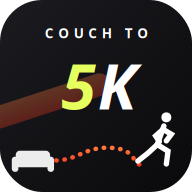
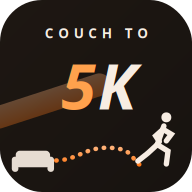
Add files via upload

diff --git a/index.html b/index.html
@@ -3,38 +3,42 @@
 <head>
 <meta charset="utf-8">
 <meta name="viewport" content="width=device-width, initial-scale=1, viewport-fit=cover">
-<meta name="theme-color" content="#08080a">
+<meta name="theme-color" content="#100c09">
 <link rel="manifest" href="manifest.json">
 <link rel="icon" type="image/png" href="icon-192.png">
 <link rel="apple-touch-icon" href="icon-192.png">
 <link rel="stylesheet" href="https://cdn.jsdelivr.net/npm/leaflet@1.9.4/dist/leaflet.css">
 <title>First 5K — Couch to 5K</title>
 <style>
-:root{--bg:#0c0c0f;--card:#15151a;--ink:#f4f4f6;--muted:#9d9da8;--green:#cdea44;--green2:#222a10;--line:#2a2a32;--orange:#f9612b;--red:#e05252}
+:root{--bg:#171310;--card:#221a14;--ink:#f7ede3;--muted:#a89a8a;--primary:#ff7a1a;--primary2:#3a2313;--line:#332920;--accent:#ffb37a;--red:#e05252}
 *{box-sizing:border-box}body{margin:0;background:var(--bg);color:var(--ink);font:16px/1.45 system-ui,-apple-system,BlinkMacSystemFont,"Segoe UI",sans-serif}
-header{background:#08080a;color:white;padding:24px 18px 22px;border-radius:0 0 24px 24px}
-.wrap{max-width:760px;margin:auto}header .eyebrow{font-size:12px;letter-spacing:.13em;text-transform:uppercase;color:#cdea44;font-weight:700}
-h1{font-size:30px;line-height:1.1;margin:8px 0}header p{margin:8px 0 0;color:#b9b9c2}
+header{background:#100c09;color:white;padding:24px 18px 22px;border-radius:0 0 24px 24px}
+.wrap{max-width:760px;margin:auto}header .eyebrow{font-size:12px;letter-spacing:.13em;text-transform:uppercase;color:#ff7a1a;font-weight:700}
+h1{font-size:28px;line-height:1.1;margin:8px 0;font-family:"Arial Narrow","Helvetica Neue Condensed",Impact,sans-serif;font-style:italic;letter-spacing:.03em}
+h2{font-size:20px;margin:0 0 12px;font-family:"Arial Narrow","Helvetica Neue Condensed",Impact,sans-serif;font-style:italic;letter-spacing:.02em;font-weight:800}
+.phase,.clock,.steptext,header .eyebrow{font-family:"Arial Narrow","Helvetica Neue Condensed",Impact,sans-serif;font-style:italic}
+.clock{letter-spacing:-.02em}
+nav button,button.primary,button.secondary,button.danger{font-family:"Arial Narrow","Helvetica Neue Condensed",Impact,sans-serif;font-style:italic;font-weight:800;letter-spacing:.03em}header p{margin:8px 0 0;color:#cbbfae}
 nav{display:flex;gap:8px;padding:14px 14px 0;max-width:760px;margin:auto}
-nav button{flex:1;border:1px solid var(--line);background:#15151a;color:var(--muted);border-radius:12px;padding:11px 5px;font-weight:700}
-nav button.active{background:var(--green);border-color:var(--green);color:#0c0c0f}
+nav button{flex:1;border:1px solid var(--line);background:#221a14;color:var(--muted);border-radius:12px;padding:11px 5px;font-weight:700}
+nav button.active{background:var(--primary);border-color:var(--primary);color:#171310}
 main{padding:14px;max-width:760px;margin:auto}.panel{display:none}.panel.active{display:block}
 .card{background:var(--card);border:1px solid var(--line);border-radius:18px;padding:17px;margin-bottom:13px;box-shadow:0 2px 8px #00000066}
-h2{font-size:20px;margin:0 0 12px}h3{font-size:16px;margin:0 0 7px}.muted{color:var(--muted)}.small{font-size:13px}
+h3{font-size:16px;margin:0 0 7px}.muted{color:var(--muted)}.small{font-size:13px}
 .row{display:flex;gap:10px;align-items:center}.row>*{min-width:0}.between{justify-content:space-between}
-select,button,input{font:inherit}select{width:100%;padding:11px;border:1px solid var(--line);border-radius:11px;background:#15151a;color:var(--ink)}
+select,button,input{font:inherit}select{width:100%;padding:11px;border:1px solid var(--line);border-radius:11px;background:#221a14;color:var(--ink)}
 button.primary,button.secondary,button.danger{border:0;border-radius:12px;padding:13px 15px;font-weight:750;cursor:pointer}
-button.primary{background:var(--green);color:#0c0c0f}button.secondary{background:var(--green2);color:var(--green)}button.danger{background:#2a1414;color:var(--red)}
+button.primary{background:var(--primary);color:#171310}button.secondary{background:var(--primary2);color:var(--primary)}button.danger{background:#3a1d16;color:var(--red)}
 button:disabled{opacity:.45;cursor:not-allowed}.full{width:100%}
-.pills{display:flex;gap:8px;flex-wrap:wrap}.pill{border-radius:999px;padding:6px 10px;background:#222a10;color:#d7f45e;font-size:12px;font-weight:700}
-.progress{height:9px;border-radius:20px;background:#232329;overflow:hidden}.progress span{display:block;height:100%;width:0;background:var(--green);transition:width .2s}
-.timer{text-align:center;padding:18px 0 12px}.phase{font-weight:800;text-transform:uppercase;letter-spacing:.1em;font-size:13px;color:var(--green)}.clock{font-size:clamp(56px,15vw,82px);letter-spacing:-.06em;line-height:1.1;font-variant-numeric:tabular-nums;font-weight:800;margin:8px 0}.steptext{font-size:17px;font-weight:700}.quote{border-left:4px solid var(--orange);padding:10px 13px;background:#221910;border-radius:0 10px 10px 0;color:#eda76f}
-.statgrid{display:grid;grid-template-columns:repeat(3,1fr);gap:8px}.stat{background:#1b1b21;padding:12px;border-radius:12px}.stat strong{display:block;font-size:22px}.stat span{font-size:12px;color:var(--muted)}
-.week{padding:13px 0;border-bottom:1px solid var(--line)}.week:last-child{border-bottom:0}.sessions{display:flex;gap:7px;margin-top:9px}.session{flex:1;text-align:center;border:1px solid var(--line);border-radius:10px;padding:9px 2px;font-size:12px;background:#15151a}.session.done{background:var(--green2);border-color:#3a4418;color:var(--green);font-weight:800}.session.current{border:2px solid var(--green);padding:8px 1px}
+.pills{display:flex;gap:8px;flex-wrap:wrap}.pill{border-radius:999px;padding:6px 10px;background:#3a2313;color:#ffb37a;font-size:12px;font-weight:700}
+.progress{height:9px;border-radius:20px;background:#332920;overflow:hidden}.progress span{display:block;height:100%;width:0;background:var(--primary);transition:width .2s}
+.timer{text-align:center;padding:18px 0 12px}.phase{font-weight:800;text-transform:uppercase;letter-spacing:.1em;font-size:13px;color:var(--primary)}.clock{font-size:clamp(56px,15vw,82px);letter-spacing:-.06em;line-height:1.1;font-variant-numeric:tabular-nums;font-weight:800;margin:8px 0}.steptext{font-size:17px;font-weight:700}.quote{border-left:4px solid var(--accent);padding:10px 13px;background:#2e1f14;border-radius:0 10px 10px 0;color:#ffb37a}
+.statgrid{display:grid;grid-template-columns:repeat(3,1fr);gap:8px}.stat{background:#2a2018;padding:12px;border-radius:12px}.stat strong{display:block;font-size:22px}.stat span{font-size:12px;color:var(--muted)}
+.week{padding:13px 0;border-bottom:1px solid var(--line)}.week:last-child{border-bottom:0}.sessions{display:flex;gap:7px;margin-top:9px}.session{flex:1;text-align:center;border:1px solid var(--line);border-radius:10px;padding:9px 2px;font-size:12px;background:#221a14}.session.done{background:var(--primary2);border-color:#5a3a1f;color:var(--primary);font-weight:800}.session.current{border:2px solid var(--primary);padding:8px 1px}
 footer{padding:4px 18px 28px;text-align:center;color:var(--muted);font-size:12px;max-width:760px;margin:auto}
 hr{border:0;border-top:1px solid var(--line);margin:15px 0}
-input[type=url]{width:100%;padding:11px;border:1px solid var(--line);border-radius:11px;background:#15151a;color:var(--ink)}
-input[type=range]{width:100%;accent-color:var(--green)}
+input[type=url]{width:100%;padding:11px;border:1px solid var(--line);border-radius:11px;background:#221a14;color:var(--ink)}
+input[type=range]{width:100%;accent-color:var(--primary)}
 details summary{cursor:pointer;font-weight:700}iframe{display:block}
 @media(min-width:600px){main{padding:18px}.card{padding:20px}.timer{padding:20px 0}}
 </style>
@@ -63,9 +67,9 @@ details summary{cursor:pointer;font-weight:700}iframe{display:block}
 </div>
 <div class="card" id="trackCard">
 <h3>Run map</h3>
-<div id="liveMap" style="height:230px;border-radius:12px;overflow:hidden;background:#15151a"></div>
+<div id="liveMap" style="height:230px;border-radius:12px;overflow:hidden;background:#221a14"></div>
 <div class="statgrid" style="margin-top:10px"><div class="stat"><strong id="liveKm">0.00</strong><span>km</span></div><div class="stat"><strong id="livePace">–</strong><span>pace /km</span></div><div class="stat"><strong id="liveTime">0:00</strong><span>time</span></div></div>
-<p class="small muted" id="trackMsg" style="margin-bottom:0">Your recorded GPS route stays on this device. Online street-map tiles are requested from CARTO; offline, a simple route trace is shown.</p>
+<p class="small muted" id="trackMsg" style="margin-bottom:0">Your route is drawn as you run. It never leaves your phone.</p>
 </div>
 <div class="card" id="musicCard">
 <h3>Music</h3>
@@ -92,7 +96,7 @@ details summary{cursor:pointer;font-weight:700}iframe{display:block}
 <div class="card"><h2>Your progress</h2><div class="statgrid"><div class="stat"><strong id="doneCount">0</strong><span>Runs completed</span></div><div class="stat"><strong id="weekCount">0/3</strong><span>This week's runs</span></div><div class="stat"><strong id="streakCount">0</strong><span>Weeks completed</span></div></div><hr><div class="row between"><h3>Workout history</h3><button class="secondary small" id="exportBtn">Export data</button></div><div id="historyList" class="muted small">Complete your first workout to see it here.</div><hr><button class="danger full" id="resetBtn">Reset all progress</button><p class="small muted">Progress is saved on this device in this browser. Clearing browser data or switching devices may erase it. Export a backup occasionally.</p></div>
 </section>
 </main>
-<footer>Free beginner tool · Core workouts need no account or subscription. Progress and GPS routes are stored on this device; online maps and Spotify use their own services.</footer>
+<footer>Free, self-contained beginner tool · No account, subscription, GPS or data sent to a server.</footer>
 <script src="https://cdn.jsdelivr.net/npm/leaflet@1.9.4/dist/leaflet.js"></script>
 <script>
 const plans = [
@@ -137,7 +141,7 @@ function fillSelectors(){
 }
 function totalFor(s){return s.reduce((a,x)=>a+x.secs,0)}
 function loadWorkout(){
- if(running||paused){if(!confirm("Change workout and stop the current timer?")){fillSelectors();return;}stopTimer()}
+ if(running){if(!confirm("Change workout and stop the current timer?"))return;stopTimer()}
  steps=sessionSteps(state.selectedWeek,state.selectedRun);total=totalFor(steps);stepIndex=0;remaining=steps[0].secs;elapsed=0;started=false;paused=false;
  $("workoutTitle").textContent=`Week ${state.selectedWeek+1} · Run ${state.selectedRun+1}`;
  $("workoutDuration").textContent="~"+Math.round(total/60)+" min";
@@ -191,7 +195,7 @@ const SPOTIFY_CLIENT_ID = "dd308f122d634c94a2ef16df478f3783";
 const SPOTIFY_REDIRECT_URI = "https://malmohlady-ctrl.github.io/Couch-to-5k/";
 const SPOTIFY_SCOPES = ["streaming","user-read-playback-state","user-modify-playback-state","user-read-currently-playing"].join(" ");
 const SPOTIFY_TOKEN_KEY = "first5k_spotify_tokens";
-let spotifyPlayer = null, spotifyDeviceId = null, spotifyReady = false, spotifyTrack = "", spotifyArtist = "", spotifyAlbum = "", spotifyArtwork = "", spotifyPosition = 0, spotifyDuration = 0, spotifyPositionAt = 0, spotifyPaused = true, spotifyTrackUri = "", spotifyPlaylistTracks = [], spotifyTracksLoading = false, spotifyTracksLoaded = false;
+let spotifyPlayer = null, spotifyDeviceId = null, spotifyReady = false, spotifyTrack = "", spotifyTrackName = "", spotifyTrackArtists = "", spotifyArtwork = "", spotifyPaused = true, spotifyTrackUri = "", spotifyPlaylistTracks = [], spotifyTracksLoading = false, spListOpen = false;
 function escHtml(s){return String(s||"").replace(/[&<>"']/g,c=>({"&":"&amp;","<":"&lt;",">":"&gt;",'"':"&quot;","'":"&#39;"}[c]));}
 function spotifySetupDone(){return SPOTIFY_CLIENT_ID && SPOTIFY_CLIENT_ID.indexOf("PASTE")!==0;}
 function spotifyTokens(){try{return JSON.parse(localStorage.getItem(SPOTIFY_TOKEN_KEY)||"null");}catch(e){return null;}}
@@ -236,7 +240,7 @@ async function spotifyToken(){
 }
 function spotifyPlaylistUri(){
  const u=spotifyLink(prefs.spotify||"");
- const m=u&&u.match(/open\.spotify\.com\/(playlist|album)\/([A-Za-z0-9]+)/);
+ const m=u&&u.match(/open\.spotify\.com\/(playlist|album|track)\/([A-Za-z0-9]+)/);
  return m?("spotify:"+m[1]+":"+m[2]):null;
 }
 function initSpotifyPlayer(){
@@ -256,13 +260,12 @@ function createSpotifyPlayer(){
  spotifyPlayer.addListener("player_state_changed",function(st){
   if(!st)return;
   const t=st.track_window&&st.track_window.current_track;
-  spotifyTrack=t?(t.name||""):"";
-  spotifyArtist=t?t.artists.map(function(a){return a.name;}).join(", "):"";
-  spotifyAlbum=t&&t.album?t.album.name:"";
-  spotifyArtwork=t&&t.album&&t.album.images&&t.album.images.length?t.album.images[0].url:"";
+  spotifyTrack=t?(t.name+" — "+t.artists.map(function(a){return a.name;}).join(", ")):"";
+  spotifyTrackName=t?t.name:"";
+  spotifyTrackArtists=t?t.artists.map(function(a){return a.name;}).join(", "):"";
   spotifyTrackUri=t?t.uri:"";
-  spotifyPosition=Number(st.position)||0;spotifyDuration=Number(st.duration)||0;spotifyPositionAt=Date.now();
-  spotifyPaused=!!st.paused;renderSpotifyConnect();spotifyUpdateProgress();
+  spotifyArtwork=(t&&t.album&&t.album.images&&t.album.images.length)?t.album.images[t.album.images.length-1].url:"";
+  spotifyPaused=!!st.paused;renderSpotifyConnect();
  });
  try{const p=spotifyPlayer.connect();if(p&&p.catch)p.catch(function(){});}catch(e){}
 }
@@ -275,23 +278,15 @@ async function spotifyApi(path,method,body){
  }catch(e){return false;}
 }
 async function spotifyStartPlaylist(){const uri=spotifyPlaylistUri();if(!uri)return;await spotifyApi("play","PUT",{context_uri:uri});}
-async function spotifyToggle(){if(spotifyPaused&&!spotifyTrackUri){await spotifyStartPlaylist();return;}await spotifyApi(spotifyPaused?"play":"pause","PUT");}
+async function spotifyToggle(){await spotifyApi(spotifyPaused?"play":"pause","PUT");}
 async function spotifyNext(){await spotifyApi("next","POST");}
-async function spotifyPrevious(){await spotifyApi("previous","POST");}
-function spotifyFmtTime(ms){const n=Math.max(0,Math.floor((Number(ms)||0)/1000));return Math.floor(n/60)+":"+String(n%60).padStart(2,"0");}
-function spotifyUpdateProgress(){
- const fill=$("spProgressFill"),now=$("spCurrentTime"),end=$("spDuration");if(!fill||!now||!end)return;
- let pos=spotifyPosition;if(!spotifyPaused)pos=Math.min(spotifyDuration,pos+Math.max(0,Date.now()-spotifyPositionAt));
- const pct=spotifyDuration?Math.min(100,Math.max(0,pos/spotifyDuration*100)):0;
- fill.style.width=pct+"%";fill.parentElement.setAttribute("aria-valuenow",String(Math.round(pct)));now.textContent=spotifyFmtTime(pos);end.textContent=spotifyFmtTime(spotifyDuration);
-}
 function spotifyPlaylistId(){
  const u=spotifyLink(prefs.spotify||"");
  const m=u&&u.match(/open\.spotify\.com\/(playlist|album)\/([A-Za-z0-9]+)/);
  return m?{kind:m[1],id:m[2]}:null;
 }
 async function spotifyLoadPlaylist(){
- if(spotifyTracksLoading||spotifyTracksLoaded)return;spotifyTracksLoading=true;spotifyTracksLoaded=true;
+ if(spotifyTracksLoading)return;spotifyTracksLoading=true;
  spotifyPlaylistTracks=[];
  const tok=await spotifyToken(),pl=spotifyPlaylistId();
  if(tok&&pl){
@@ -299,7 +294,7 @@ async function spotifyLoadPlaylist(){
    const ep=pl.kind==="album"?"albums":"playlists";
    const res=await fetch("https://api.spotify.com/v1/"+ep+"/"+pl.id+"/tracks?fields=items(track(name,artists(name),uri))&limit=50",{headers:{Authorization:"Bearer "+tok}});
    const data=await res.json();
-   spotifyPlaylistTracks=(data.items||[]).map(function(i){return i.track||i;}).filter(function(t){return t&&t.name&&t.uri;}).map(function(t){return{name:t.name,artists:(t.artists||[]).map(function(a){return a.name;}).join(", "),uri:t.uri};});
+   spotifyPlaylistTracks=(data.items||[]).map(function(i){return i.track;}).filter(Boolean).map(function(t){return{name:t.name,artists:t.artists.map(function(a){return a.name;}).join(", "),uri:t.uri};});
   }catch(e){}
  }
  spotifyTracksLoading=false;renderSpotifyConnect();
@@ -310,45 +305,49 @@ async function spotifyPlayTrack(uri){
  else await spotifyApi("play","PUT",{uris:[uri]});
 }
 function renderTrackList(){
- if(spotifyTracksLoading)return '<p class="small muted" style="margin:12px 0 0">Loading playlist…</p>';
- if(!spotifyPlaylistTracks.length)return '<p class="small muted" style="margin:12px 0 0">Your playlist track list could not be loaded. Playback may still work. Check Spotify permissions or try saving the playlist link again.</p>';
- let h='<div id="spTrackList" style="margin-top:10px;max-height:230px;overflow-y:auto;border:1px solid var(--line);border-radius:10px">';
+ if(!spotifyPlaylistTracks.length)return "";
+ let h='<div id="spTrackList" style="margin-top:8px;max-height:240px;overflow-y:auto;background:#161616;border-radius:14px;padding:8px">';
  for(let i=0;i<spotifyPlaylistTracks.length;i++){
   const t=spotifyPlaylistTracks[i],active=t.uri===spotifyTrackUri;
-  h+='<div class="sp-track" data-uri="'+escHtml(t.uri)+'" style="padding:9px 12px;cursor:pointer;'+(i>0?"border-top:1px solid var(--line);":"")+(active?"background:var(--green2);":"")+'">'
-   +'<div style="font-weight:700;font-size:14px;'+(active?"color:var(--green);":"")+'">'+escHtml(t.name)+'</div>'
-   +'<div class="small muted">'+escHtml(t.artists)+'</div></div>';
+  h+='<div class="sp-track" data-uri="'+t.uri+'" style="padding:10px 12px;cursor:pointer;border-radius:10px;'+(active?"background:#2e2e2e;":"")+'">'
+   +'<div style="font-weight:700;font-size:14px;color:#fff;white-space:nowrap;overflow:hidden;text-overflow:ellipsis">'+escHtml(t.name)+'</div>'
+   +'<div style="font-size:12px;color:#9a9a9a;white-space:nowrap;overflow:hidden;text-overflow:ellipsis">'+escHtml(t.artists)+'</div></div>';
  }
  return h+'</div>';
 }
-function spotifyDisconnect(){try{spotifyPlayer&&spotifyPlayer.disconnect();}catch(e){}spotifyPlayer=null;spotifyDeviceId=null;spotifyReady=false;spotifyTrack="";spotifyArtist="";spotifyAlbum="";spotifyArtwork="";spotifyPosition=0;spotifyDuration=0;spotifyPositionAt=0;spotifyPaused=true;spotifyTrackUri="";spotifyPlaylistTracks=[];spotifyTracksLoading=false;spotifyTracksLoaded=false;spotifyClearTokens();renderSpotifyConnect();}
+function spotifyDisconnect(){try{spotifyPlayer&&spotifyPlayer.disconnect();}catch(e){}spotifyPlayer=null;spotifyDeviceId=null;spotifyReady=false;spotifyTrack="";spotifyTrackName="";spotifyTrackArtists="";spotifyArtwork="";spotifyPaused=true;spotifyTrackUri="";spotifyPlaylistTracks=[];spotifyTracksLoading=false;spListOpen=false;spotifyClearTokens();renderSpotifyConnect();}
 function renderSpotifyConnect(){
  const box=$("spotifyConnect");if(!box)return;
  if(!spotifySetupDone()){box.innerHTML="";return;}
  if(!spotifyTokens()){
-  box.innerHTML='<button class="primary full" id="spConnectBtn" type="button">Connect Spotify</button><p class="small muted" style="margin:8px 0 0">Connect once to play music here, view the playlist and control playback without leaving First 5K.</p>';
+  box.innerHTML='<button class="primary full" id="spConnectBtn" type="button" style="background:#1db954;color:#fff">Connect Spotify</button>'
+   +'<p class="small muted" style="margin:8px 0 0">One-time login. After that, full songs play right here in the app.</p>' ;
   $("spConnectBtn").addEventListener("click",spotifyLogin);return;
  }
- if(!spotifyPlaylistTracks.length&&spotifyReady&&!spotifyTracksLoading&&!spotifyTracksLoaded)spotifyLoadPlaylist();
- const art=spotifyArtwork&&/^https:\/\//i.test(spotifyArtwork)?spotifyArtwork:"";
- const artwork=art?'<img src="'+escHtml(art)+'" alt="Album artwork" style="width:76px;height:76px;object-fit:cover;border-radius:10px;background:#232329;flex-shrink:0" loading="lazy">':'<div aria-label="Album artwork unavailable" style="width:76px;height:76px;border-radius:10px;background:#232329;display:grid;place-items:center;flex-shrink:0;font-size:26px">♫</div>';
- let html='<div style="border:1px solid var(--line);border-radius:15px;padding:12px;background:#101014">';
- html+='<div class="row" style="align-items:center;gap:12px">'+artwork+'<div style="min-width:0;flex:1"><div class="small muted" style="margin-bottom:3px">'+(spotifyReady?'NOW PLAYING':'SPOTIFY PLAYER')+'</div><div style="font-weight:800;font-size:15px;line-height:1.25;overflow-wrap:anywhere">'+escHtml(spotifyTrack||(spotifyReady?'Choose a song':'Connecting player…'))+'</div><div class="small muted" style="margin-top:4px;overflow-wrap:anywhere">'+escHtml(spotifyArtist||spotifyAlbum||(spotifyReady?'Ready to play':'Waiting for Spotify'))+'</div>'+(spotifyAlbum&&spotifyArtist?'<div class="small muted" style="margin-top:2px;overflow-wrap:anywhere">'+escHtml(spotifyAlbum)+'</div>':'')+'</div></div>';
- html+='<div style="margin-top:14px"><div id="spProgress" role="progressbar" aria-label="Song progress" aria-valuemin="0" aria-valuemax="100" aria-valuenow="0" style="height:5px;border-radius:99px;background:#303039;overflow:hidden"><div id="spProgressFill" style="height:100%;width:0;background:var(--green);border-radius:99px"></div></div><div class="row between small muted" style="margin-top:5px"><span id="spCurrentTime">0:00</span><span id="spDuration">0:00</span></div></div>';
- html+='<div class="row" style="justify-content:center;gap:12px;margin-top:10px"><button class="secondary" id="spPrevBtn" type="button" aria-label="Previous track" title="Previous track" style="min-width:48px;font-size:18px">|◀</button><button class="primary" id="spPlayBtn" type="button" aria-label="'+(spotifyPaused?'Play':'Pause')+'" style="min-width:100px">'+(spotifyPaused?'▶ Play':'Ⅱ Pause')+'</button><button class="secondary" id="spNextBtn" type="button" aria-label="Next track" title="Next track" style="min-width:48px;font-size:18px">▶|</button></div>';
- if(!spotifyReady)html+='<p class="small muted" style="margin:10px 0 0">Player connecting. If it stays here, check your Spotify Premium account and app authorization.</p>';
- html+='</div>';
- html+='<div class="row between" style="margin-top:13px"><h3 style="margin:0">Playlist</h3><span class="small muted">'+(spotifyPlaylistTracks.length?spotifyPlaylistTracks.length+' tracks':'')+'</span></div>';
- html+=renderTrackList();
- html+='<p class="small muted" style="margin:9px 0 0"><a href="#" id="spDisc" style="color:var(--muted)">Disconnect Spotify</a> · Tap a song below to play it.</p>';
- box.innerHTML=html;
+ if(!spotifyPlaylistTracks.length&&spotifyReady)spotifyLoadPlaylist();
+ let sub="";
+ if(!spotifyReady)sub='<p class="small muted" style="margin:0 0 8px">Connecting player…</p>';
+ let art;
+ if(spotifyArtwork)art='<img src="'+escHtml(spotifyArtwork)+'" alt="" style="width:44px;height:44px;border-radius:9px;flex:none;object-fit:cover">';
+ else art='<span style="width:44px;height:44px;border-radius:9px;flex:none;background:linear-gradient(135deg,#a9c8de,#1e3a4f)"></span>';
+ box.innerHTML=sub
+  +'<div style="display:flex;align-items:center;gap:10px;background:#161616;border-radius:18px;padding:9px 12px;box-shadow:0 6px 18px rgba(0,0,0,.28)">'
+  +art
+  +'<div id="spTrackTap" style="flex:1;min-width:0;cursor:pointer">'
+  +'<div style="font-weight:700;font-size:14px;color:#fff;white-space:nowrap;overflow:hidden;text-overflow:ellipsis">'+escHtml(spotifyTrackName||"Nothing playing")+'</div>'
+  +'<div style="font-size:12px;color:#9a9a9a;white-space:nowrap;overflow:hidden;text-overflow:ellipsis">'+escHtml(spotifyTrackArtists||"Tap here to browse tracks")+'</div>'
+  +'</div>'
+  +'<button id="spPlayBtn" type="button" aria-label="Play or pause" style="width:46px;height:46px;border-radius:50%;background:#fff;color:#161616;border:0;font-size:15px;font-weight:800;cursor:pointer;flex:none">'+(spotifyPaused?"\u25B6":"\u23F8")+'</button>'
+  +'<button id="spNextBtn" type="button" aria-label="Next track" style="background:none;border:0;color:#8f8f8f;font-size:20px;cursor:pointer;flex:none;padding:6px">\u23ED</button>'
+  +'</div>'
+  +'<div id="spListWrap" style="display:'+(spListOpen?"block":"none")+'">'+renderTrackList()+'</div>'
+  +'<p class="small muted" style="margin:8px 0 0"><a href="#" id="spDisc" style="color:var(--muted)">Disconnect Spotify</a> · Tap a track to play it.</p>';
  $("spPlayBtn").addEventListener("click",spotifyToggle);
- $("spPrevBtn").addEventListener("click",spotifyPrevious);
  $("spNextBtn").addEventListener("click",spotifyNext);
+ $("spTrackTap").addEventListener("click",function(){spListOpen=!spListOpen;renderSpotifyConnect();});
  const rows=box.querySelectorAll(".sp-track");
  for(let i=0;i<rows.length;i++)(function(el){el.addEventListener("click",function(){spotifyPlayTrack(el.getAttribute("data-uri"));});})(rows[i]);
  $("spDisc").addEventListener("click",function(e){e.preventDefault();spotifyDisconnect();});
- spotifyUpdateProgress();
 }
 function spotifyLink(raw){
  raw=(raw||"").trim();
@@ -369,7 +368,7 @@ $("spotifySave").addEventListener("click",()=>{
  if(/spotify\.link\//i.test(v)){$("musicMsg").textContent="That's a short link. Open it in Chrome, then copy the address from the address bar and paste that here.";return}
  const u=spotifyLink(v);
  if(!u){$("musicMsg").textContent="That doesn't look like a Spotify link. In Spotify, tap Share, then Copy link.";return}
- prefs.spotify=u;savePrefs();renderMusic();spotifyPlaylistTracks=[];spotifyTracksLoaded=false;spotifyTracksLoading=false;spotifyLoadPlaylist();$("spotifyInput").value="";$("musicMsg").textContent="Playlist saved on this device.";
+ prefs.spotify=u;savePrefs();renderMusic();spotifyPlaylistTracks=[];spotifyLoadPlaylist();$("spotifyInput").value="";$("musicMsg").textContent="Playlist saved on this device.";
 });
 function announceStep(){const s=steps[stepIndex];tone(s.type==="Run"?850:560,.22);speak(s.type==="Run"?"Start running. Let's fucking go, my nigga!":s.type==="Walk"||s.type.includes("walk")?"Walk and recover. Nice fucking work, my nigga.":s.type);$("phase").textContent=s.type;$("stepText").textContent=s.type;$("clock").textContent=fmt(remaining);$("stepCount").textContent=`Stage ${stepIndex+1} of ${steps.length}`;}
 function calcElapsed(){let e=0;for(let i=0;i<stepIndex;i++)e+=steps[i].secs;return e+steps[stepIndex].secs-remaining}
@@ -401,13 +400,7 @@ function tick(){
  if(r>0)announceStep();
  updateTimer();
 }
-function updateTimer(){
-  $("clock").textContent=fmt(remaining);
-  $("timerProgress").style.width=(total>0?Math.min(100,elapsed/total*100):0)+"%";
-  $("liveTime").textContent=fmtClock(elapsed);
-  const km=trackKm(track);
-  $("livePace").textContent=km>0.02&&elapsed>10?fmtPace(elapsed/km):"–";
-}
+function updateTimer(){$("clock").textContent=fmt(remaining);$("timerProgress").style.width=Math.min(100,elapsed/total*100)+"%"}
 // ---- Run tracking: GPS route, distance, pace. Everything stays on-device. ----
 let track=[], watchId=null, trackMsg="", liveMap=null, liveLine=null;
 function havKm(a,b){const R=6371,r=Math.PI/180,dLa=(b.lat-a.lat)*r,dLo=(b.lon-a.lon)*r;const s=Math.sin(dLa/2)**2+Math.cos(a.lat*r)*Math.cos(b.lat*r)*Math.sin(dLo/2)**2;return 2*R*Math.asin(Math.sqrt(s));}
@@ -440,7 +433,7 @@ function startTrack(){
 function stopTrack(){if(watchId!==null){try{navigator.geolocation.clearWatch(watchId)}catch(e){}watchId=null;}}
 function resetTrackCard(){
  $("liveKm").textContent="0.00";$("livePace").textContent="–";$("liveTime").textContent="0:00";
- $("trackMsg").textContent="Your recorded GPS route stays on this device. Online street-map tiles are requested from CARTO; offline, a simple route trace is shown.";
+ $("trackMsg").textContent="Your route is drawn as you run. It never leaves your phone.";
  resetLiveMap();
 }
 function resetLiveMap(){try{if(liveMap)liveMap.remove()}catch(e){}liveMap=null;liveLine=null;const el=$("liveMap");if(el)el.innerHTML="";}
@@ -449,7 +442,7 @@ function updateTrackUI(){
  $("liveKm").textContent=km.toFixed(2);
  $("liveTime").textContent=fmtClock(secs);
  $("livePace").textContent=km>0.02&&secs>10?fmtPace(secs/km):"–";
- $("trackMsg").textContent=trackMsg||(track.length?"Your recorded GPS route stays on this device. Online street-map tiles are requested from CARTO; offline, a simple route trace is shown.":"Waiting for GPS…");
+ $("trackMsg").textContent=trackMsg||(track.length?"Your route is drawn as you run. It never leaves your phone.":"Waiting for GPS…");
  drawLiveMap();
 }
 function drawLiveMap(){
@@ -461,8 +454,8 @@ function drawLiveMap(){
     el.innerHTML="";
     liveMap=L.map("liveMap",{zoomControl:false}).setView(latlngs[0],15);
     L.tileLayer("https://{s}.basemaps.cartocdn.com/dark_all/{z}/{x}/{y}{r}.png",{maxZoom:19,attribution:"© OpenStreetMap contributors © CARTO"}).addTo(liveMap);
-    liveLine=L.polyline(latlngs,{color:"#cdea44",weight:4}).addTo(liveMap);
-    L.circleMarker(latlngs[0],{radius:6,color:"#cdea44",fillColor:"#cdea44",fillOpacity:1}).addTo(liveMap);
+    liveLine=L.polyline(latlngs,{color:"#ff7a1a",weight:4}).addTo(liveMap);
+    L.circleMarker(latlngs[0],{radius:6,color:"#ff7a1a",fillColor:"#ff7a1a",fillOpacity:1}).addTo(liveMap);
     setTimeout(()=>{try{liveMap.invalidateSize()}catch(e){}},150);
    }else liveLine.setLatLngs(latlngs);
    liveMap.fitBounds(liveLine.getBounds(),{padding:[24,24]});
@@ -477,12 +470,12 @@ function drawTraceCanvas(el,pts){
  let a=Math.min(...lats),b=Math.max(...lats),c=Math.min(...lons),d=Math.max(...lons);
  if(b-a<1e-6){b+=5e-5;a-=5e-5}if(d-c<1e-6){d+=5e-5;c-=5e-5}
  const X=lo=>20+(lo-c)/(d-c)*(w-40),Y=la=>20+(1-(la-a)/(b-a))*(h-40);
- el.innerHTML=`<canvas width="${w}" height="${h}" style="width:100%;display:block;border-radius:12px;background:#15151a"></canvas><p class="small muted" style="margin:6px 0 0">Offline — the street map needs a data connection.</p>`;
+ el.innerHTML=`<canvas width="${w}" height="${h}" style="width:100%;display:block;border-radius:12px;background:#221a14"></canvas><p class="small muted" style="margin:6px 0 0">Offline — the street map needs a data connection.</p>`;
  const g=el.querySelector("canvas").getContext("2d");
- g.strokeStyle="#cdea44";g.lineWidth=3;g.lineJoin="round";g.beginPath();
+ g.strokeStyle="#ff7a1a";g.lineWidth=3;g.lineJoin="round";g.beginPath();
  pts.forEach((p,i)=>{const x=X(p.lon),y=Y(p.lat);i?g.lineTo(x,y):g.moveTo(x,y)});
  g.stroke();
- g.fillStyle="#cdea44";g.beginPath();g.arc(X(pts[0].lon),Y(pts[0].lat),5,0,7);g.fill();
+ g.fillStyle="#ff7a1a";g.beginPath();g.arc(X(pts[0].lon),Y(pts[0].lat),5,0,7);g.fill();
  g.fillStyle="#e05252";const e=pts[pts.length-1];g.beginPath();g.arc(X(e.lon),Y(e.lat),5,0,7);g.fill();
 }
 function drawTrackInto(el,pts){
@@ -492,8 +485,8 @@ function drawTrackInto(el,pts){
    el.innerHTML="";
    const m=L.map(el,{zoomControl:false}).setView(latlngs[0],15);
    L.tileLayer("https://{s}.basemaps.cartocdn.com/dark_all/{z}/{x}/{y}{r}.png",{maxZoom:19,attribution:"© OpenStreetMap contributors © CARTO"}).addTo(m);
-   const line=L.polyline(latlngs,{color:"#cdea44",weight:4}).addTo(m);
-   L.circleMarker(latlngs[0],{radius:5,color:"#cdea44",fillColor:"#cdea44",fillOpacity:1}).addTo(m);
+   const line=L.polyline(latlngs,{color:"#ff7a1a",weight:4}).addTo(m);
+   L.circleMarker(latlngs[0],{radius:5,color:"#ff7a1a",fillColor:"#ff7a1a",fillOpacity:1}).addTo(m);
    const e=latlngs[latlngs.length-1];
    L.circleMarker(e,{radius:5,color:"#e05252",fillColor:"#e05252",fillOpacity:1}).addTo(m);
    m.fitBounds(line.getBounds(),{padding:[16,16]});
@@ -526,8 +519,7 @@ function startWorkout(){
 }
 function stopTimer(){if(interval)clearInterval(interval);interval=null;running=false;paused=false;keepAwake(false);stopTrack()}
 function finishWorkout(){
- elapsed=total;remaining=0;
- stopTimer();updateTimer();tone(900,.4);speak("Workout complete. Great fucking job, my nigga! Take your cool down nice and slow.");
+ stopTimer();tone(900,.4);speak("Workout complete. Great fucking job, my nigga! Take your cool down nice and slow.");
  const k=workoutKey(state.selectedWeek,state.selectedRun);
  if(!state.completed.some(x=>x.key===k)){
   const entry={key:k,week:state.selectedWeek,run:state.selectedRun,date:dateKey(),timestamp:Date.now(),minutes:Math.round(total/60)};
@@ -545,26 +537,19 @@ function renderProgress(){
  $("historyList").innerHTML=state.completed.length?state.completed.slice().sort((a,b)=>b.timestamp-a.timestamp).map(x=>{
   const sub=`${x.date} · ${x.minutes} min`+(x.km?` · ${x.km.toFixed(2)} km · ${fmtPace(x.paceSec)} /km`:"");
   const mapDiv=x.track&&x.track.length?`<div id="histmap-${x.timestamp}" style="display:none;height:210px;border-radius:12px;overflow:hidden;margin:2px 0 8px"></div>`:"";
-  const tap=x.track&&x.track.length?`<br><span class="small" style="color:var(--green);font-weight:700">Tap to view map</span>`:"";
-  return `<div class="histrow" data-ts="${x.timestamp}" style="${x.track?'cursor:pointer;':''}padding:9px 0;border-bottom:1px solid var(--line)"><div class="row between"><span><strong>Week ${x.week+1} · Run ${x.run+1}</strong><br><span class="muted">${sub}</span>${tap}</span><span style="color:var(--green);font-weight:800">✓ Done</span></div></div>${mapDiv}`;
+  const tap=x.track&&x.track.length?`<br><span class="small" style="color:var(--primary);font-weight:700">Tap to view map</span>`:"";
+  return `<div class="histrow" data-ts="${x.timestamp}" style="${x.track?'cursor:pointer;':''}padding:9px 0;border-bottom:1px solid var(--line)"><div class="row between"><span><strong>Week ${x.week+1} · Run ${x.run+1}</strong><br><span class="muted">${sub}</span>${tap}</span><span style="color:var(--primary);font-weight:800">✓ Done</span></div></div>${mapDiv}`;
  }).join(""):'Complete your first workout to see it here.';
  document.querySelectorAll(".histrow").forEach(r=>r.addEventListener("click",()=>renderHistMap(+r.dataset.ts)));
 }
 function renderPlan(){
  $("planList").innerHTML=plans.map((p,w)=>{const n=[0,1,2].filter(r=>isDone(w,r)).length;return `<div class="week"><div class="row between"><div><strong>Week ${w+1}</strong><div class="small muted">${p.desc}</div></div><span class="pill">${n}/3 done</span></div><div class="progress" style="margin-top:8px"><span style="width:${n/3*100}%"></span></div><div class="sessions">${[0,1,2].map(r=>`<button class="session ${isDone(w,r)?"done":""} ${w===state.selectedWeek&&r===state.selectedRun?"current":""}" data-w="${w}" data-r="${r}">${isDone(w,r)?"✓ ":""}Run ${r+1}</button>`).join("")}</div></div>`}).join("");
- document.querySelectorAll(".session").forEach(b=>b.addEventListener("click",()=>{if(chooseWorkout(+b.dataset.w,+b.dataset.r))switchTab("today")}));
+ document.querySelectorAll(".session").forEach(b=>b.addEventListener("click",()=>{state.selectedWeek=+b.dataset.w;state.selectedRun=+b.dataset.r;save();fillSelectors();loadWorkout();switchTab("today")}));
 }
 function switchTab(tab){document.querySelectorAll("nav button").forEach(b=>b.classList.toggle("active",b.dataset.tab===tab));document.querySelectorAll(".panel").forEach(p=>p.classList.toggle("active",p.id===tab))}
-function chooseWorkout(w,r){
- if(running||paused){
-  if(!confirm("Change workout and stop the current timer?")){fillSelectors();return false;}
-  stopTimer();
- }
- state.selectedWeek=w;state.selectedRun=r;save();fillSelectors();loadWorkout();return true;
-}
 document.querySelectorAll("nav button").forEach(b=>b.addEventListener("click",()=>switchTab(b.dataset.tab)));
-$("weekSelect").addEventListener("change",e=>{chooseWorkout(+e.target.value,state.selectedRun)});
-$("runSelect").addEventListener("change",e=>{chooseWorkout(state.selectedWeek,+e.target.value)});
+$("weekSelect").addEventListener("change",e=>{state.selectedWeek=+e.target.value;save();loadWorkout()});
+$("runSelect").addEventListener("change",e=>{state.selectedRun=+e.target.value;save();loadWorkout()});
 $("startBtn").addEventListener("click",startWorkout);
 $("pauseBtn").addEventListener("click",()=>{if(!started)return;if(!paused){if(sync()<0)return;paused=true;running=false;if(interval)clearInterval(interval);interval=null;keepAwake(false);$("pauseBtn").textContent="Resume";$("phase").textContent="Paused";$("stepText").textContent=steps[stepIndex].type;$("stepCount").textContent=`Stage ${stepIndex+1} of ${steps.length}`;updateTimer()}else resumeWorkout()});
 $("skipBtn").addEventListener("click",()=>{if(!started)return;if(running&&sync()<0)return;stepIndex++;if(stepIndex>=steps.length){finishWorkout();return}remaining=steps[stepIndex].secs;stepEnd=Date.now()+remaining*1000;elapsed=calcElapsed();announceStep();updateTimer()});
@@ -572,7 +557,6 @@ $("exportBtn").addEventListener("click",()=>{const blob=new Blob([JSON.stringify
 $("resetBtn").addEventListener("click",()=>{if(confirm("Reset all saved progress? This cannot be undone unless you exported a backup.")){state={completed:[],selectedWeek:0,selectedRun:0};save();stopTimer();fillSelectors();loadWorkout()}});
 fillSelectors();loadWorkout();
 renderVoice();renderMusic();renderSpotifyConnect();spotifyHandleCallback();
-setInterval(spotifyUpdateProgress,1000);
 document.addEventListener("visibilitychange",()=>{if(document.visibilityState==="visible"&&running&&!paused){tick();if(running)keepAwake(true)}});
 if("serviceWorker"in navigator){window.addEventListener("load",()=>navigator.serviceWorker.register("sw.js").catch(()=>{}))}
 </script>

diff --git a/sw.js b/sw.js
@@ -1,6 +1,6 @@
 
 /* First 5K service worker — cache-first offline support */
-const CACHE = "first5k-v13";
+const CACHE = "first5k-v16";
 
 const ASSETS = [
   "./",
